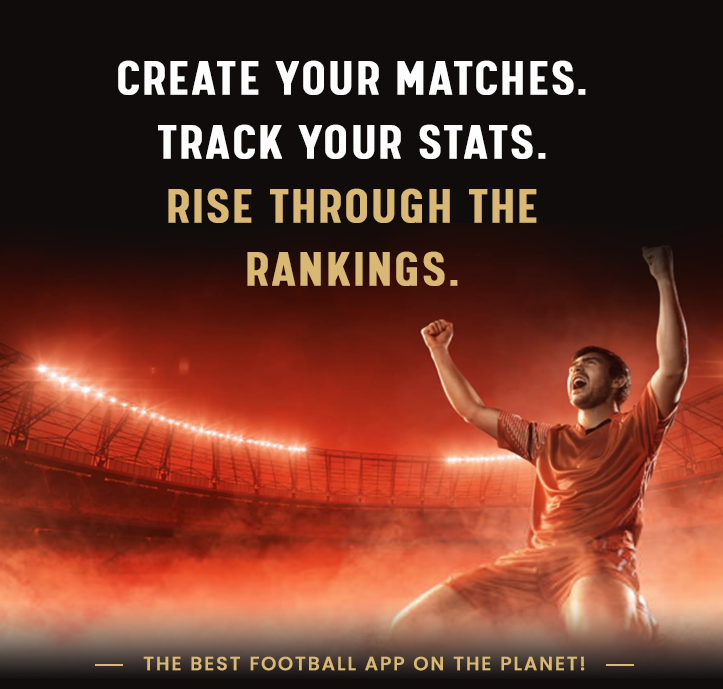
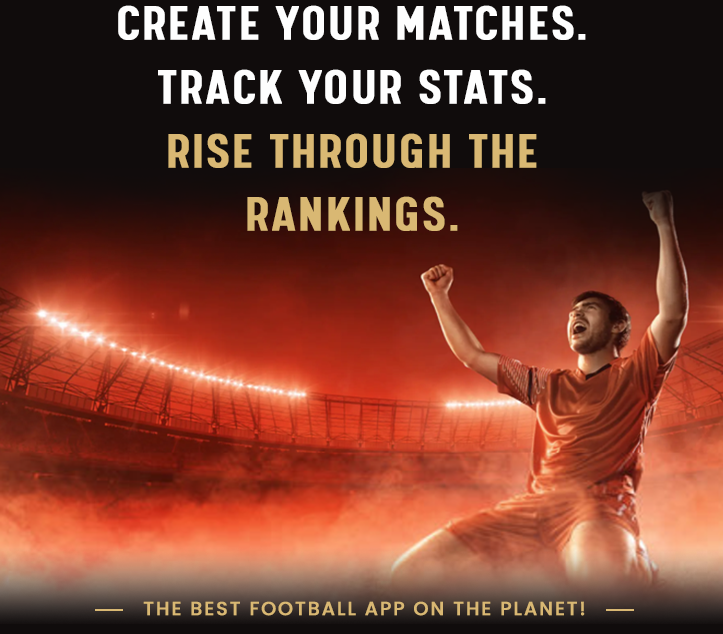
changes

diff --git a/src/Components/playercard/playercard.tsx b/src/Components/playercard/playercard.tsx
@@ -150,7 +150,12 @@ const PlayerCard = ({
   const avatarInitials = getAvatarInitials({ name: normalizedName });
   const avatarBg = getAvatarBackgroundColor(normalizedName || displayCardName);
   const normalizedFoot = typeof foot === 'string' ? foot.trim().toUpperCase() : '';
-  const footLabel = normalizedFoot === 'RIGHT' ? 'R' : normalizedFoot === 'LEFT' ? 'L' : (normalizedFoot || '-');
+  const footLabel =
+    normalizedFoot === 'LEFT' || normalizedFoot === 'L'
+      ? 'L'
+      : normalizedFoot === 'RIGHT' || normalizedFoot === 'R'
+      ? 'R'
+      : (normalizedFoot || 'R');
   const isRightFoot = footLabel === 'R';
   // Pick the correct vector image based on color
   const Title = vectorMap[color] || vectorDefault;
@@ -647,7 +652,7 @@ const PlayerCard = ({
         </Box>
 
         {/* Name and Title (from static logic) */}
-        <Box sx={{ mt: disableImagePopup ? 1 : 2, mb: disableImagePopup ? 0.9 : 0.5 }}>
+        <Box sx={{ mt: disableImagePopup ? 0.6 : 0.6, mb: disableImagePopup ? 0.4 : 0.35 }}>
           <Typography
             fontSize="16px"
             fontWeight="bold"
@@ -664,8 +669,8 @@ const PlayerCard = ({
           fontWeight="bold"
           color="#fff"
           sx={{
-            mt: { xs: 0.45, sm: disableImagePopup ? 1.05 : 0.5 },
-            mb: 0.5,
+            mt: { xs: 0.3, sm: disableImagePopup ? 0.6 : 0.35 },
+            mb: 0.35,
             lineHeight: 1
           }}
         >
@@ -685,7 +690,7 @@ const PlayerCard = ({
           <Box
             sx={{
               width: '1px',
-              height: '80px',
+              height: '76px',
               bgcolor: '#fff',
               mx: 1,
             }}

diff --git a/src/app/all-matches/_components/page.tsx b/src/app/all-matches/_components/page.tsx
@@ -1254,7 +1254,7 @@ export default function AllMatches() {
                 DEF: player?.skills?.defending?.toString() || '',
                 PHY: player?.skills?.physical?.toString() || ''
             },
-            foot: player?.preferredFoot === 'right' ? 'R' : 'L',
+            foot: (player?.preferredFoot ?? '').toString().trim().toLowerCase() === 'left' || (player?.preferredFoot ?? '').toString().trim().toLowerCase() === 'l' ? 'L' : 'R',
             profileImage: player?.profilePicture ? (player.profilePicture.startsWith('http') ? player.profilePicture : `${process.env.NEXT_PUBLIC_API_URL}${player.profilePicture.startsWith('/') ? player.profilePicture : `/${player.profilePicture}`}`) : undefined,
             shirtIcon: ''
         };
@@ -5020,7 +5020,7 @@ export default function AllMatches() {
 //                 DEF: player?.skills?.defending?.toString() || '',
 //                 PHY: player?.skills?.physical?.toString() || ''
 //             },
-//             foot: player?.preferredFoot === 'right' ? 'R' : 'L',
+//             foot: (player?.preferredFoot ?? '').toString().trim().toLowerCase() === 'left' || (player?.preferredFoot ?? '').toString().trim().toLowerCase() === 'l' ? 'L' : 'R',
 //             profileImage: player?.profilePicture ? (player.profilePicture.startsWith('http') ? player.profilePicture : `${process.env.NEXT_PUBLIC_API_URL}${player.profilePicture.startsWith('/') ? player.profilePicture : `/${player.profilePicture}`}`) : undefined,
 //             shirtIcon: ''
 //         };

diff --git a/src/app/home/_components/index.tsx b/src/app/home/_components/index.tsx
@@ -2835,7 +2835,7 @@ export default function PlayerDashboard() {
                   DEF: user?.skills?.defending?.toString() || '',
                   PHY: user?.skills?.physical?.toString() || ''
                 }}
-                foot={user?.preferredFoot === "right" ? "R" : "L"}
+                foot={(user?.preferredFoot ?? '').toString().trim().toLowerCase() === 'left' || (user?.preferredFoot ?? '').toString().trim().toLowerCase() === 'l' ? 'L' : 'R'}
                 profileImage={user?.profilePicture || undefined}
                 shirtIcon=""
                 position={user?.position || 'XXX'}
@@ -3155,7 +3155,7 @@ export default function PlayerDashboard() {
                 DEF: user?.skills?.defending?.toString() || '',
                 PHY: user?.skills?.physical?.toString() || ''
               }}
-              foot={user?.preferredFoot === "right" ? "R" : "L"}
+              foot={(user?.preferredFoot ?? '').toString().trim().toLowerCase() === 'left' || (user?.preferredFoot ?? '').toString().trim().toLowerCase() === 'l' ? 'L' : 'R'}
               profileImage={user?.profilePicture || undefined}
               shirtIcon={''}
               position={user?.position || 'XXX'}

diff --git a/src/app/league/[id]/match/[matchId]/edit/_components/EditMatchPage.tsx b/src/app/league/[id]/match/[matchId]/edit/_components/EditMatchPage.tsx
@@ -2264,7 +2264,7 @@ export default function EditMatchPage({ leagueIdProp, matchIdProp, isDialog, onC
                       transition: 'all .25s ease'
                     }}
                   >
-                    Add Guest
+                    Add Guest Player
                   </Button>
                   <Button
                     startIcon={<Scale size={18} />}
@@ -4058,7 +4058,7 @@ export default function EditMatchPage({ leagueIdProp, matchIdProp, isDialog, onC
         </DialogContent>
         <DialogActions sx={{ px: 3, pb: 3, bgcolor: 'rgba(15,15,15,0.95)' }}>
           <Button onClick={() => setGuestDialogOpen(false)} sx={{ color: '#9CA3AF' }}>Cancel</Button>
-          <Button onClick={handleAddGuest} variant='contained' sx={{ background: 'linear-gradient(135deg,#e56a16,#cf2326)', '&:hover': { background: 'linear-gradient(135deg,#d32f2f,#b71c1c)' } }}>Add Guest</Button>
+          <Button onClick={handleAddGuest} variant='contained' sx={{ background: 'linear-gradient(135deg,#e56a16,#cf2326)', '&:hover': { background: 'linear-gradient(135deg,#d32f2f,#b71c1c)' } }}>Add Guest Player</Button>
         </DialogActions>
       </Dialog>
 

diff --git a/src/Components/TrophyRoom.tsx b/src/Components/TrophyRoom.tsx
@@ -90,7 +90,7 @@ const TROPHY_META: Array<Omit<TrophyType, 'winner' | 'winnerId' | 'leagueId' | '
   { title: 'GOAT', description: 'Player With The Highest Win Ratio & Total MOTM Votes', image: GoatImg, color: '#F44336' },
   { title: 'Golden Boot', description: 'Player With The Highest Number Of Goals Scored', image: GoldenBootImg, color: '#FF9800' },
   { title: 'King Playmaker', description: 'Player With The Highest Number Of Goals Assisted', image: KingPlayMakerImg, color: '#FF007F' },
-  { title: 'Legendary Shield', description: 'Player With The Highest Number Of Defensive Impact Votes', image: ShieldImg, color: '#00BFFF' },
+  { title: 'Legendary Shield', description: 'Player With The Highest Number Of Defensive Impact Votes', image: ShieldImg, color: '#1E5B84' },
   { title: 'The Dark Horse', description: 'Player Outside Of The Top 3 League Position With The Highest Frequency Of MOTM Votes', image: DarkHorseImg, color: '#607D8B' },
   // New
   { title: 'Star Keeper', description: 'Player With The Highest Number Of Clean Sheets', image: StarKeeperImg, color: BLUE_HEX },

diff --git a/src/app/trophy-room/page.tsx b/src/app/trophy-room/page.tsx
@@ -247,7 +247,7 @@ const topTrophies: Omit<TrophyType, 'winner' | 'winnerId' | 'leagueId' | 'league
 const bottomTrophies: Omit<TrophyType, 'winner' | 'winnerId' | 'leagueId' | 'leagueName'>[] = [
   { title: 'Golden Boot', description: 'Player With The Highest Number Of Goals Scored', image: GoldenBootImg, color: '#00FF85' },
   { title: 'King Playmaker', description: 'Player With The Highest Number Of Goals Assisted', image: KingPlayMakerImg, color: '#FF007F' },
-  { title: 'Legendary Shield', description: 'Player With The Highest Number Of Defensive Impact Votes', image: ShieldImg, color: 'blue' },
+  { title: 'Legendary Shield', description: 'Player With The Highest Number Of Defensive Impact Votes', image: ShieldImg, color: '#1E5B84' },
   { title: 'Dark Horse', description: 'Player Outside Of The Top 3 League Position With The Highest Frequency Of MOTM Votes', image: DarkHorseImg, color: '#e10600' },
   { title: 'Star Keeper', description: 'Player With The Highest Number Of Clean Sheets', image: StarKeeperImg, color: '#00d1c1' },
 ];
